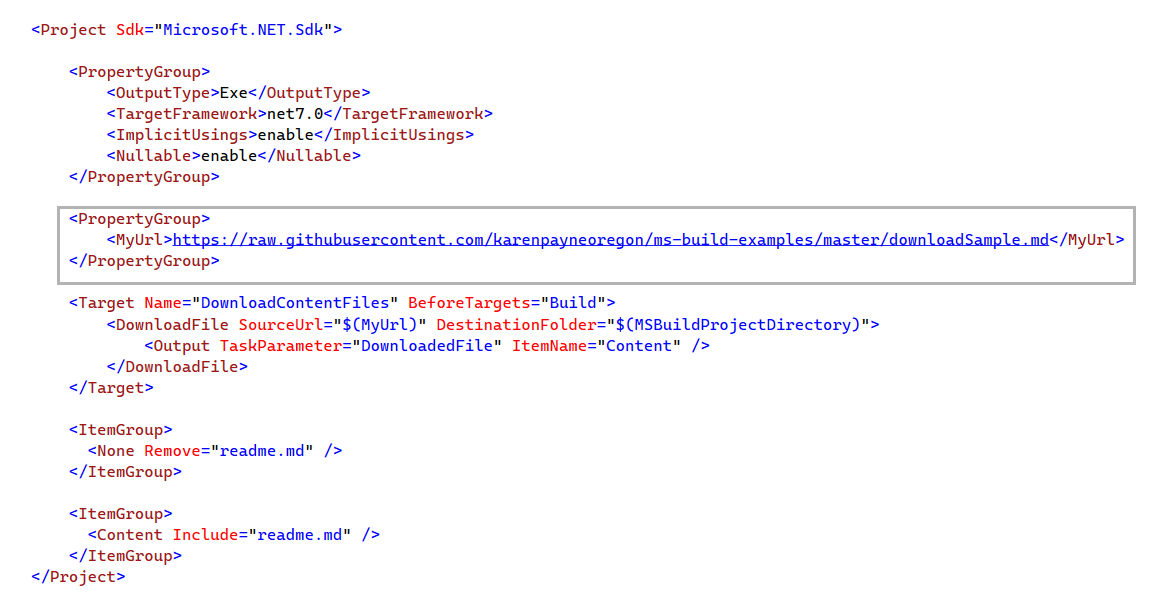
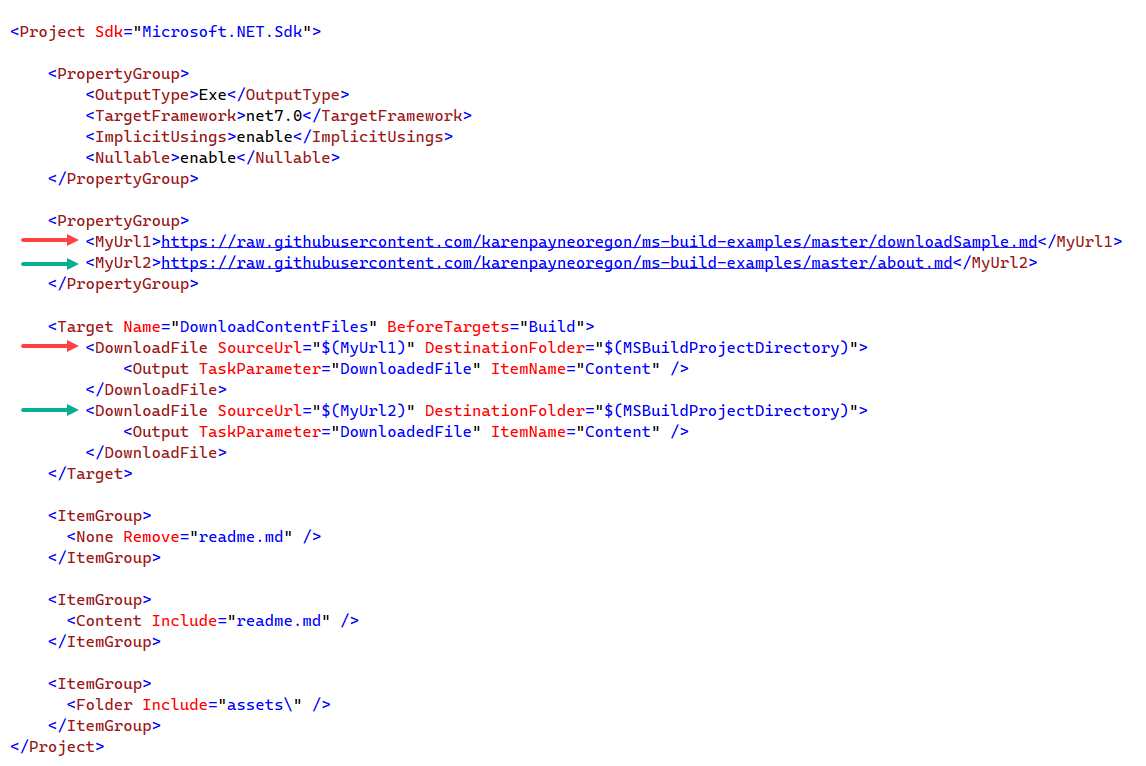
image

Changed region(s): [[0.0, 0.093, 1.0, 0.9918], [0.0, 0.031, 0.3054, 0.062]]

diff --git a/MsBuildDownloadFileApp/about.md b/MsBuildDownloadFileApp/about.md
@@ -1,0 +1,3 @@
+# About
+
+Place your content here.
